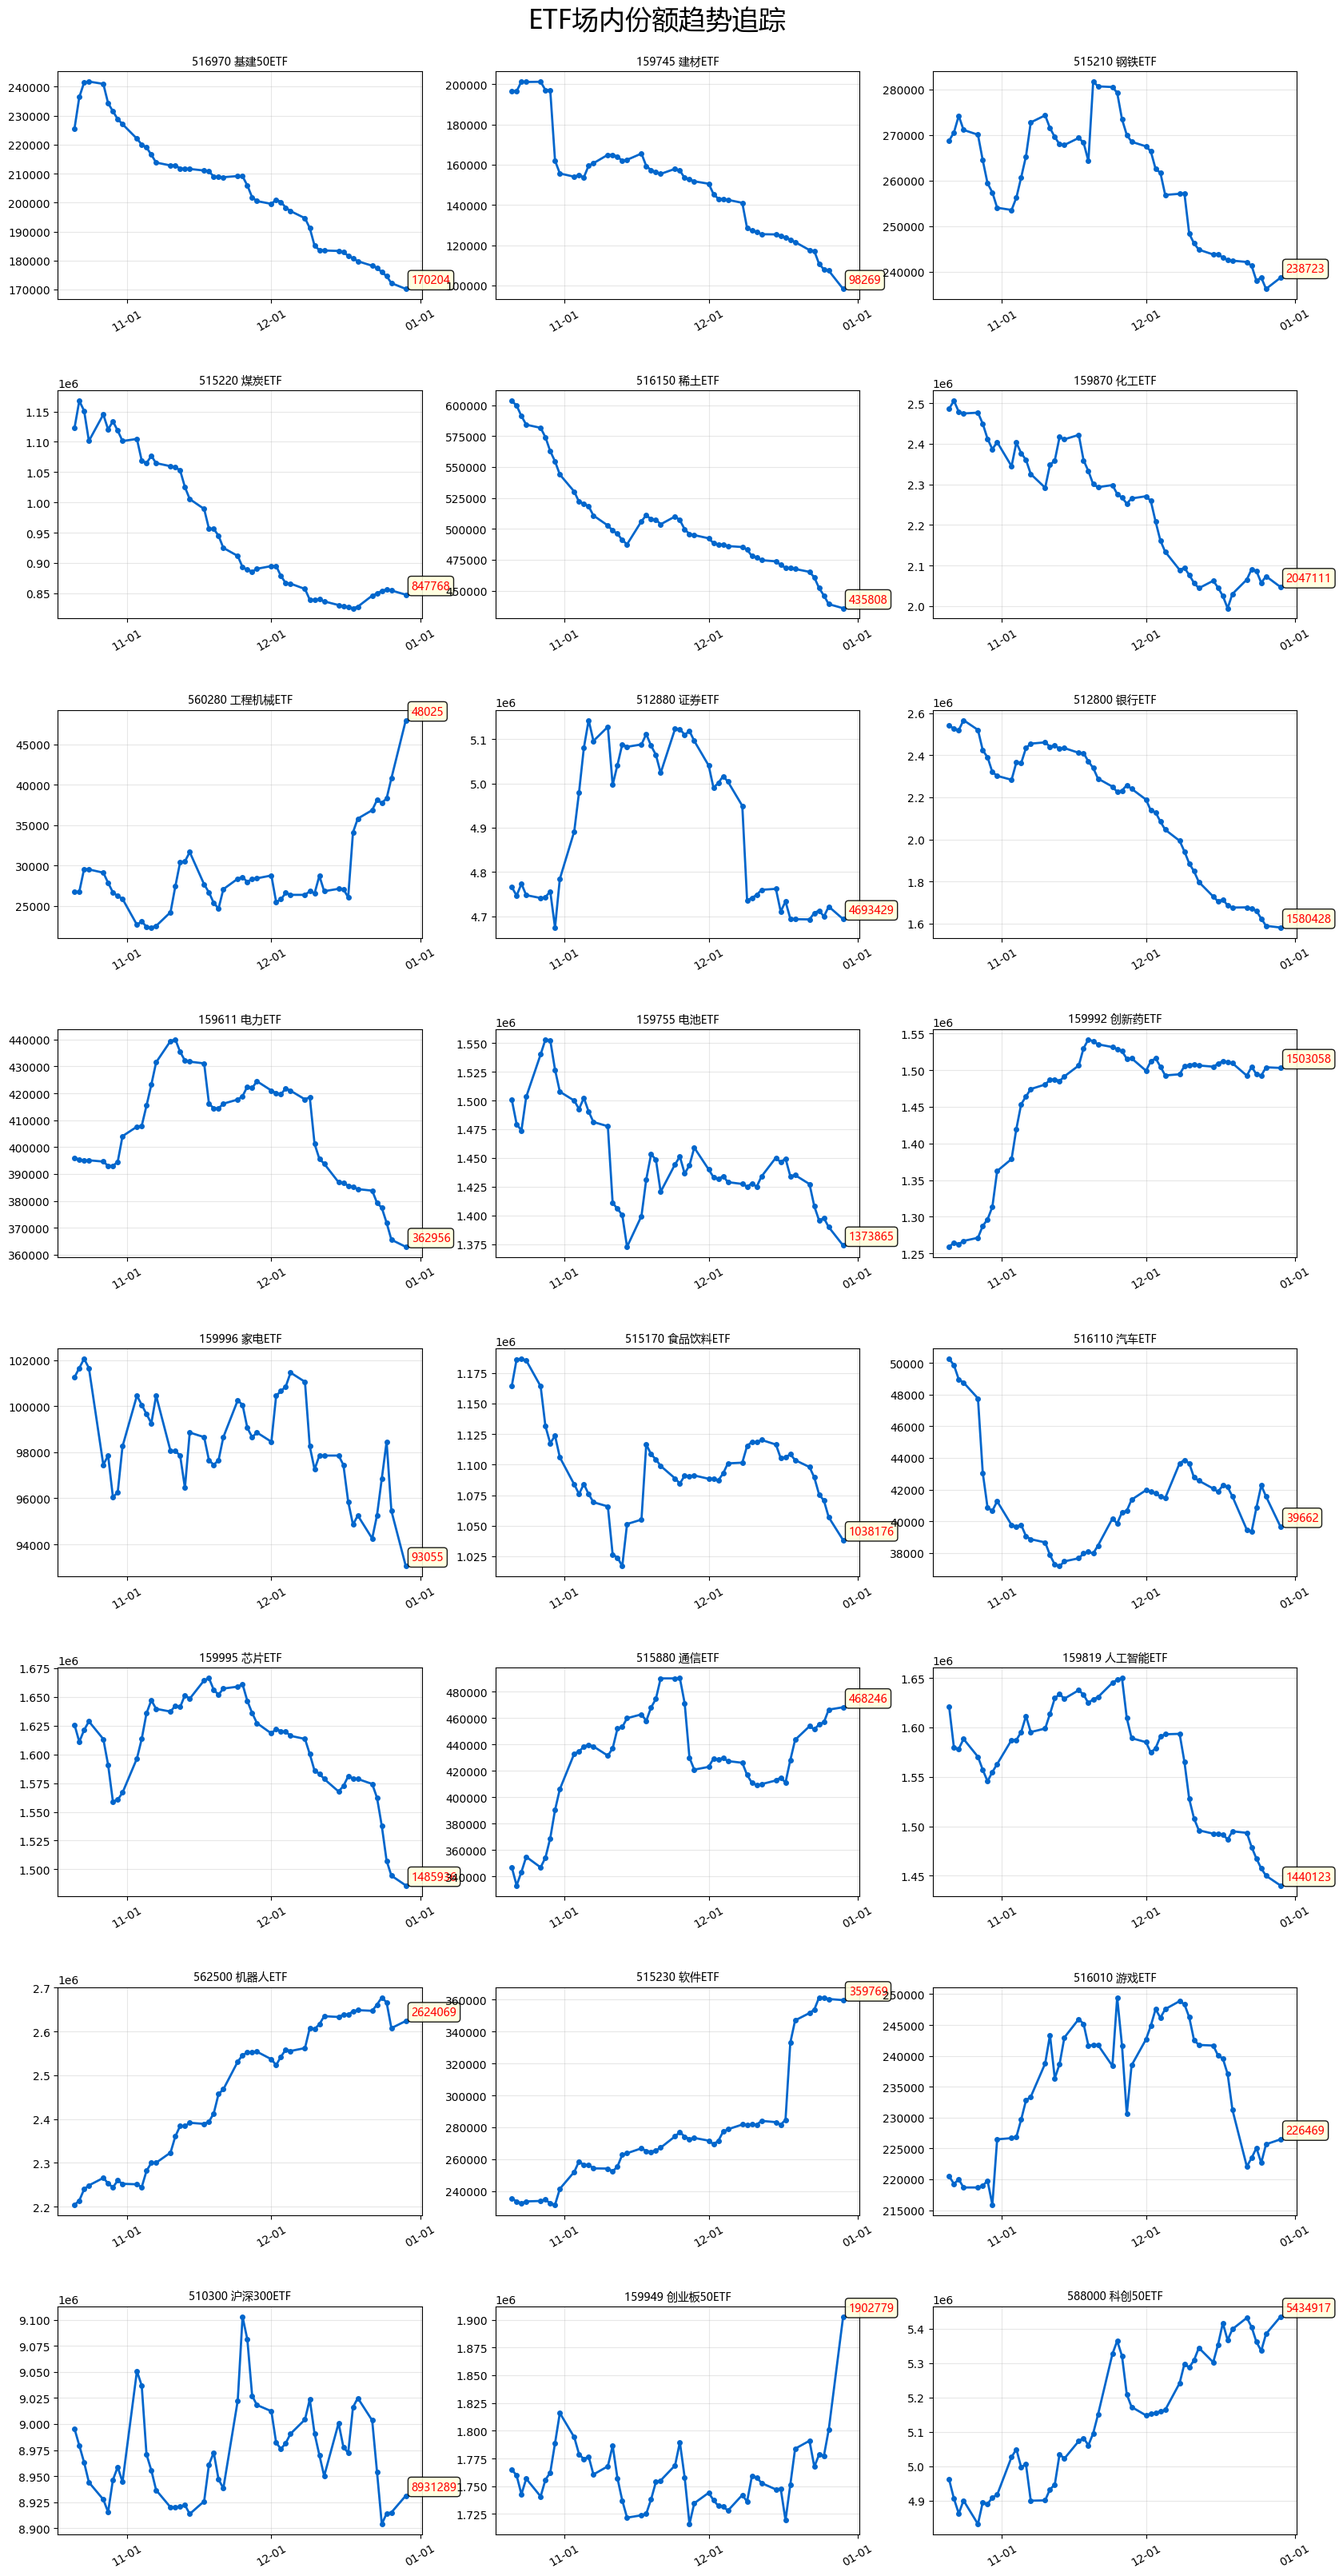
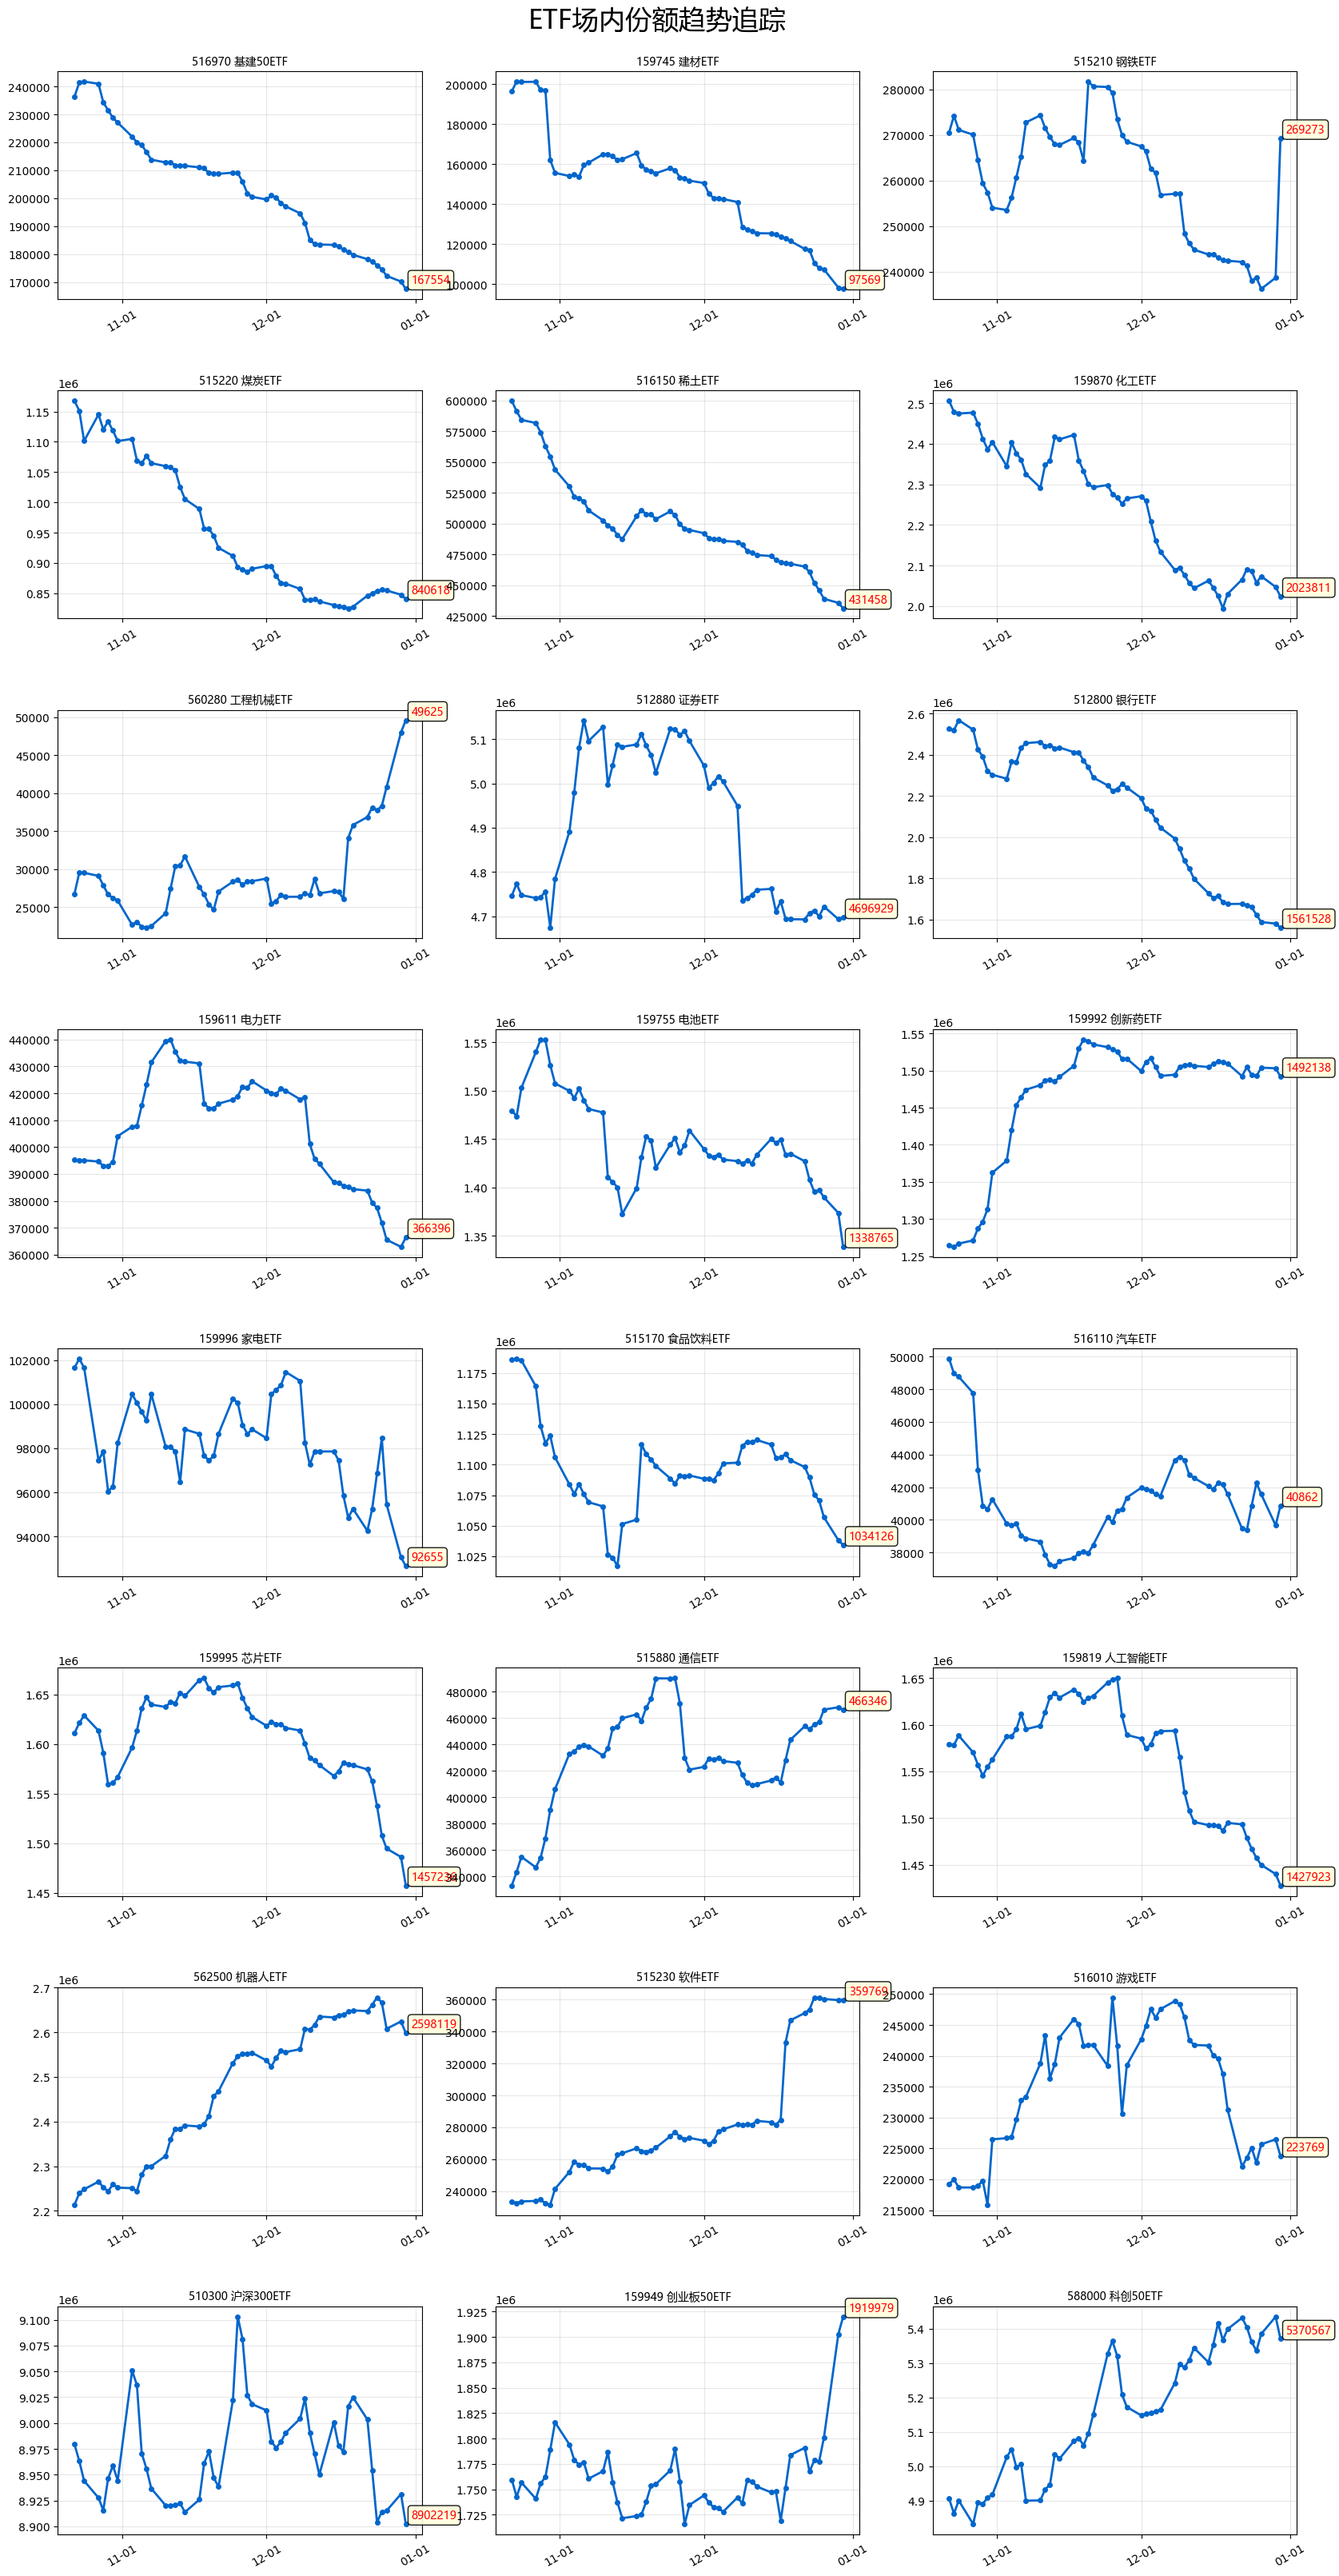
deploy: b52a12e6ae16b126233a24a12c2d7ccfcbfab4a2

diff --git a/index.html b/index.html
@@ -42,35 +42,35 @@
 </head>
 <body>
     <h1>ETF 场内份额每日追踪（摘自集思录）</h1>
-    <div class="update-time">更新时间 (北京时间): 2025-12-29 23:29</div>
+    <div class="update-time">更新时间 (北京时间): 2025-12-30 23:28</div>
     
     <div class="content-box">
         <h3 style="margin-top:0; border-bottom: 2px solid #f4f4f4; padding-bottom: 10px;">📊 最新份额排名</h3>
         <ul class="rank-list">
-            <li style='color:red; font-weight:bold;'>1. 沪深300ETF (510300): 8,931,289 万份</li>
-<li style='color:red; font-weight:bold;'>2. 科创50ETF (588000): 5,434,917 万份</li>
-<li style='color:red; font-weight:bold;'>3. 证券ETF (512880): 4,693,429 万份</li>
-<li style='color:black; font-weight:normal;'>4. 机器人ETF (562500): 2,624,069 万份</li>
-<li style='color:black; font-weight:normal;'>5. 化工ETF (159870): 2,047,111 万份</li>
-<li style='color:black; font-weight:normal;'>6. 创业板50ETF (159949): 1,902,779 万份</li>
-<li style='color:black; font-weight:normal;'>7. 银行ETF (512800): 1,580,428 万份</li>
-<li style='color:black; font-weight:normal;'>8. 创新药ETF (159992): 1,503,058 万份</li>
-<li style='color:black; font-weight:normal;'>9. 芯片ETF (159995): 1,485,936 万份</li>
-<li style='color:black; font-weight:normal;'>10. 人工智能ETF (159819): 1,440,123 万份</li>
-<li style='color:black; font-weight:normal;'>11. 电池ETF (159755): 1,373,865 万份</li>
-<li style='color:black; font-weight:normal;'>12. 食品饮料ETF (515170): 1,038,176 万份</li>
-<li style='color:black; font-weight:normal;'>13. 煤炭ETF (515220): 847,768 万份</li>
-<li style='color:black; font-weight:normal;'>14. 通信ETF (515880): 468,246 万份</li>
-<li style='color:black; font-weight:normal;'>15. 稀土ETF (516150): 435,808 万份</li>
-<li style='color:black; font-weight:normal;'>16. 电力ETF (159611): 362,956 万份</li>
+            <li style='color:red; font-weight:bold;'>1. 沪深300ETF (510300): 8,902,219 万份</li>
+<li style='color:red; font-weight:bold;'>2. 科创50ETF (588000): 5,370,567 万份</li>
+<li style='color:red; font-weight:bold;'>3. 证券ETF (512880): 4,696,929 万份</li>
+<li style='color:black; font-weight:normal;'>4. 机器人ETF (562500): 2,598,119 万份</li>
+<li style='color:black; font-weight:normal;'>5. 化工ETF (159870): 2,023,811 万份</li>
+<li style='color:black; font-weight:normal;'>6. 创业板50ETF (159949): 1,919,979 万份</li>
+<li style='color:black; font-weight:normal;'>7. 银行ETF (512800): 1,561,528 万份</li>
+<li style='color:black; font-weight:normal;'>8. 创新药ETF (159992): 1,492,138 万份</li>
+<li style='color:black; font-weight:normal;'>9. 芯片ETF (159995): 1,457,236 万份</li>
+<li style='color:black; font-weight:normal;'>10. 人工智能ETF (159819): 1,427,923 万份</li>
+<li style='color:black; font-weight:normal;'>11. 电池ETF (159755): 1,338,765 万份</li>
+<li style='color:black; font-weight:normal;'>12. 食品饮料ETF (515170): 1,034,126 万份</li>
+<li style='color:black; font-weight:normal;'>13. 煤炭ETF (515220): 840,618 万份</li>
+<li style='color:black; font-weight:normal;'>14. 通信ETF (515880): 466,346 万份</li>
+<li style='color:black; font-weight:normal;'>15. 稀土ETF (516150): 431,458 万份</li>
+<li style='color:black; font-weight:normal;'>16. 电力ETF (159611): 366,396 万份</li>
 <li style='color:black; font-weight:normal;'>17. 软件ETF (515230): 359,769 万份</li>
-<li style='color:black; font-weight:normal;'>18. 钢铁ETF (515210): 238,723 万份</li>
-<li style='color:black; font-weight:normal;'>19. 游戏ETF (516010): 226,469 万份</li>
-<li style='color:black; font-weight:normal;'>20. 基建50ETF (516970): 170,204 万份</li>
-<li style='color:black; font-weight:normal;'>21. 建材ETF (159745): 98,269 万份</li>
-<li style='color:black; font-weight:normal;'>22. 家电ETF (159996): 93,055 万份</li>
-<li style='color:black; font-weight:normal;'>23. 工程机械ETF (560280): 48,025 万份</li>
-<li style='color:black; font-weight:normal;'>24. 汽车ETF (516110): 39,662 万份</li>
+<li style='color:black; font-weight:normal;'>18. 钢铁ETF (515210): 269,273 万份</li>
+<li style='color:black; font-weight:normal;'>19. 游戏ETF (516010): 223,769 万份</li>
+<li style='color:black; font-weight:normal;'>20. 基建50ETF (516970): 167,554 万份</li>
+<li style='color:black; font-weight:normal;'>21. 建材ETF (159745): 97,569 万份</li>
+<li style='color:black; font-weight:normal;'>22. 家电ETF (159996): 92,655 万份</li>
+<li style='color:black; font-weight:normal;'>23. 工程机械ETF (560280): 49,625 万份</li>
+<li style='color:black; font-weight:normal;'>24. 汽车ETF (516110): 40,862 万份</li>
 
         </ul>
     </div>
